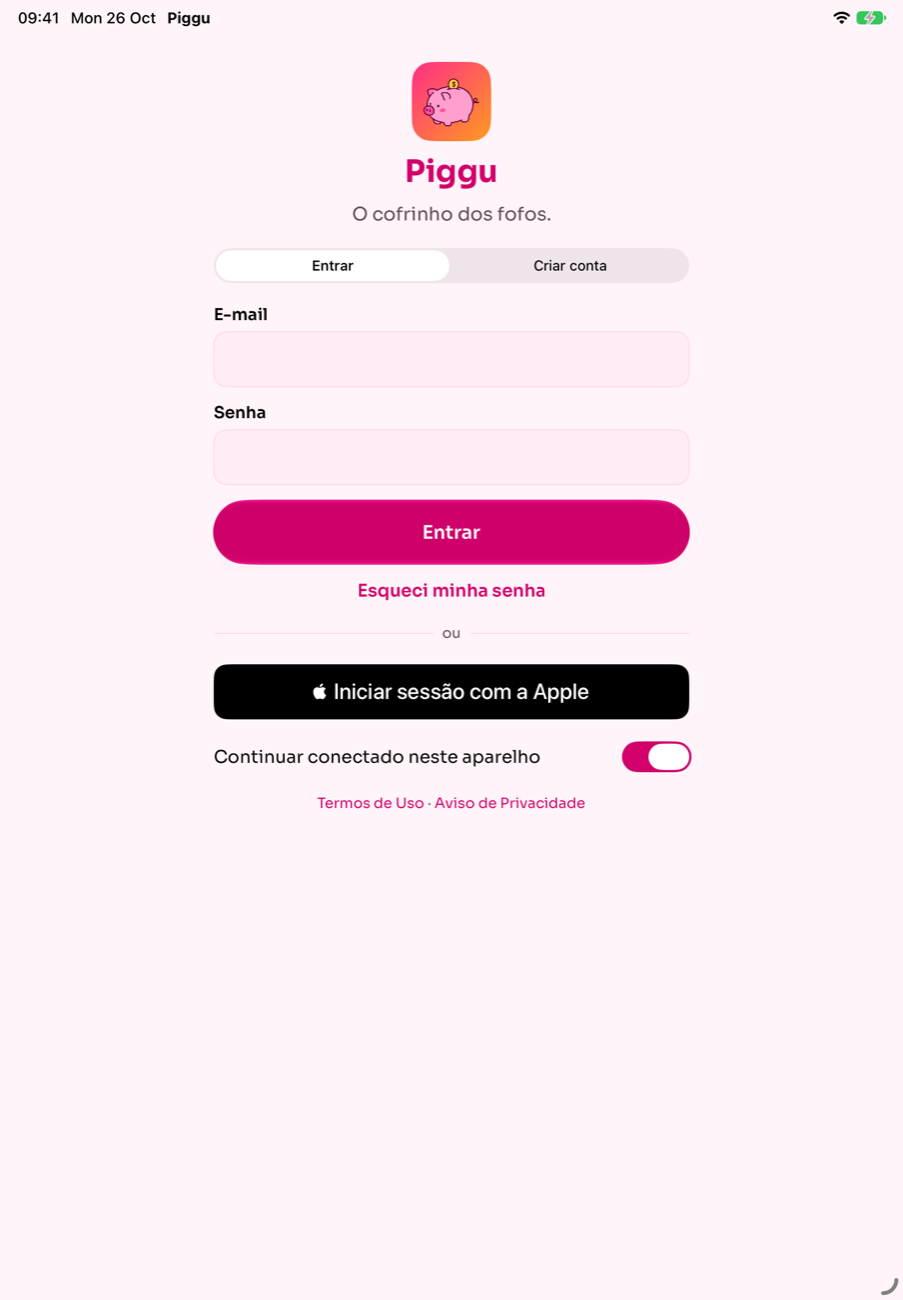
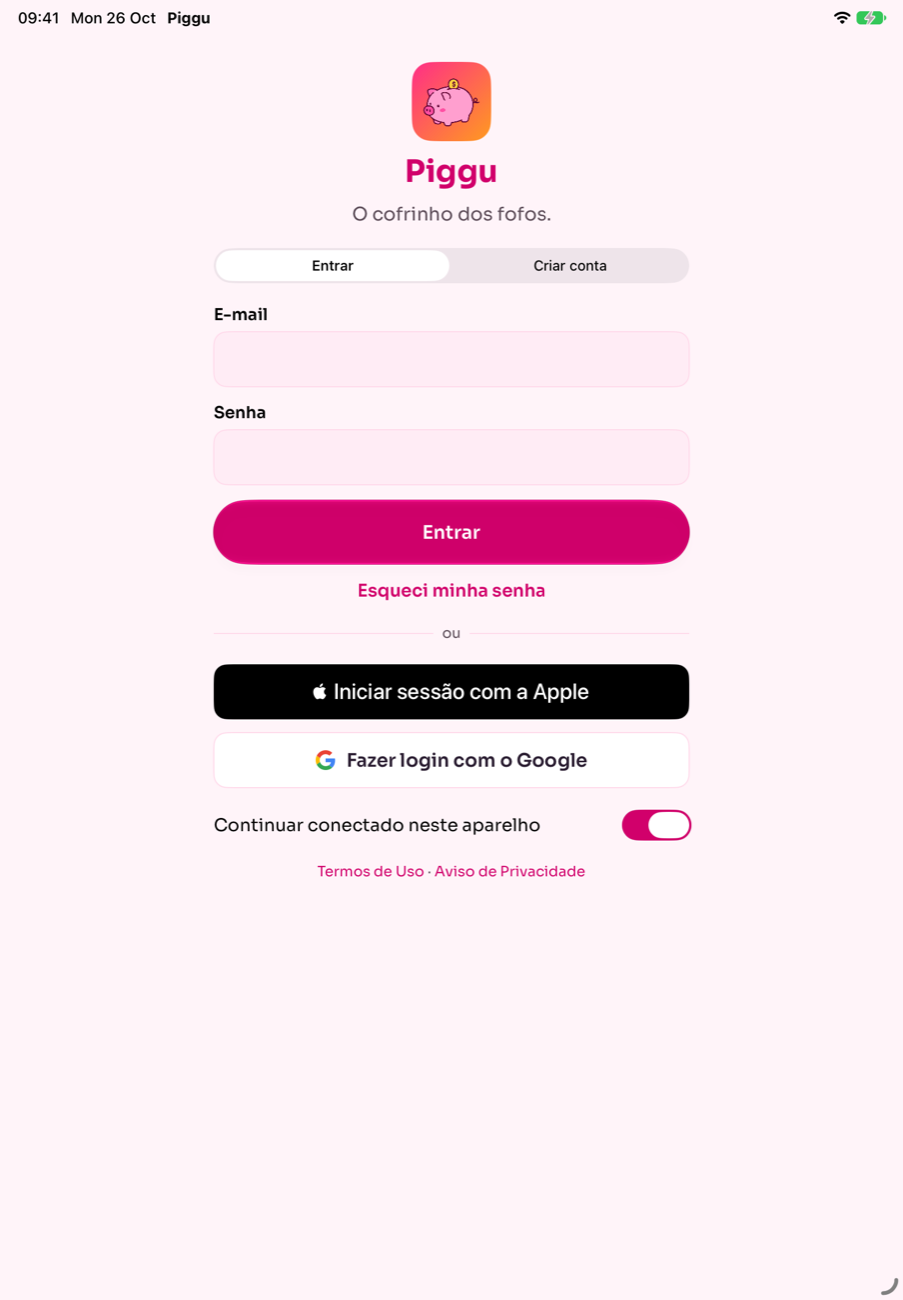
iOS nativo: IDs do Google e Team no projeto (D-084)
Os IDs OAuth do Google sao publicos e vao dentro do app: passam para o Piggu.xcconfig, no Git,
e o botao aparece em todo build. O projeto assina com o Team H766LA27ZJ. Prints da tela de
entrar refeitos com o botao do Google.

Claude-Session: https://claude.ai/code/session_012EHC8KkuLH6kBqEGWdkNrv

Changed region(s): [[0.2481, 0.5538, 0.6512, 0.6769], [0.6822, 0.5538, 0.7752, 0.6462]]

diff --git a/ios-nativo/Piggu/Core/Auth/EntradaComGoogle.swift b/ios-nativo/Piggu/Core/Auth/EntradaComGoogle.swift
@@ -2,7 +2,7 @@ import GoogleSignIn
 import UIKit
 
 /// Google Sign-In nativo (D-055): devolve o ID token que vai para POST /auth/google. O ID OAuth
-/// do iOS vem do `Config/Google.xcconfig`, fora do Git; sem ele o botao nao aparece.
+/// do iOS vem do `Config/Piggu.xcconfig`; sem ele o botao nao aparece.
 @MainActor
 enum EntradaComGoogle {
     /// O GIDClientID do Info.plist, preenchido pelo build setting GOOGLE_IOS_CLIENT_ID.

diff --git a/ios-nativo/README.md b/ios-nativo/README.md
@@ -68,31 +68,12 @@ responde como link vencido.
 
 ### Universal Links (links do e-mail)
 
-O app já tem o *Associated Domains* `applinks:piggu.com.br`. Para o link do e-mail abrir o app em
-vez do site, falta publicar no site o arquivo `https://piggu.com.br/.well-known/apple-app-site-association`
-(JSON, sem extensão, sem redirecionamento), com o Team ID da conta de desenvolvedor no lugar de
-`TEAMID`:
-
-```json
-{
-  "applinks": {
-    "details": [
-      {
-        "appIDs": ["TEAMID.br.com.piggu.app"],
-        "components": [
-          { "/": "/confirmar-email", "?": { "token": "?*" } },
-          { "/": "/redefinir-senha", "?": { "token": "?*" } }
-        ]
-      }
-    ]
-  },
-  "webcredentials": { "apps": ["TEAMID.br.com.piggu.app"] }
-}
-```
-
-No site, o arquivo vai em `frontend/public/.well-known/` e o `deploy/Caddyfile` precisa servi-lo
-com `Content-Type: application/json`. Enquanto ele não existir, o link abre o site, que tem as
-mesmas telas.
+O app tem o *Associated Domains* `applinks:piggu.com.br`, e o site publica
+`https://piggu.com.br/.well-known/apple-app-site-association` (`frontend/public/.well-known/`,
+servido como JSON pelo `deploy/Caddyfile`) com o App ID `H766LA27ZJ.br.com.piggu.app`. Os links
+de `/confirmar-email` e `/redefinir-senha` abrem o app; sem o app, abrem o site, que tem as
+mesmas telas. A Apple lê o arquivo pela CDN dela, então o app só passa a abrir os links depois
+que ele estiver no ar em produção.
 
 ## Bibliotecas
 
@@ -112,29 +93,20 @@ A fonte Sora (`Piggu/Recursos/Sora.woff2`) é o mesmo arquivo do pacote
 O alvo tem a capacidade *Sign in with Apple* (`Piggu/Piggu.entitlements`). O app manda o
 identity token, o nonce e, na primeira vez, o nome para `POST /api/auth/apple` (D-072). No
 servidor, `APPLE_CLIENT_IDS=br.com.piggu.app`; sem isso a rota responde 501 e o app mostra
-"O login com a Apple ainda não está disponível". No Xcode, ao escolher o *Team*, a assinatura
-automática registra a capacidade no App ID.
+"O login com a Apple ainda não está disponível". O projeto assina com o Team `H766LA27ZJ`; a
+assinatura automática registra a capacidade no App ID.
 
 ## Entrar com Google
 
-O botão só aparece quando o build tem o ID OAuth do iOS, que fica em
-`Config/Google.xcconfig`, fora do Git (`Config/Piggu.xcconfig` o inclui se existir). Para
-criar:
+Os IDs OAuth ficam em `Config/Piggu.xcconfig`: são públicos e vão dentro do app. O do iOS
+(tipo **iOS** no [Google Cloud Console](https://console.cloud.google.com/apis/credentials), no
+mesmo projeto do site, ID do pacote `br.com.piggu.app`) abre o login e dá o esquema de URL de
+volta (`GOOGLE_IOS_URL_SCHEME`, o mesmo ID ao contrário). Sem `GOOGLE_IOS_CLIENT_ID` o botão
+não aparece.
 
-1. No [Google Cloud Console](https://console.cloud.google.com/apis/credentials), no mesmo
-   projeto do ID do site, *Criar credenciais → ID do cliente OAuth*.
-2. Tipo de aplicativo **iOS**, nome "Piggu iOS", ID do pacote `br.com.piggu.app` (o Team ID e o
-   ID da App Store são opcionais). Criar.
-3. Copie `Config/Google.exemplo.xcconfig` para `Config/Google.xcconfig` e preencha
-   `GOOGLE_IOS_CLIENT_ID` com o *ID do cliente* e `GOOGLE_IOS_URL_SCHEME` com o *esquema de URL
-   do iOS* que a tela mostra (o mesmo ID ao contrário, `com.googleusercontent.apps....`).
-
-O servidor não muda: o app pede o token para o ID do site (`GIDServerClientID`, em
-`Config/Piggu.xcconfig`), então o `aud` é o mesmo que o backend já aceita em `GOOGLE_CLIENT_ID`.
-Não ponha dois IDs separados por vírgula nessa variável: o `application.yml` a lê como um
-item só da lista e o login do site para.
-
-No CI o arquivo não existe: o app compila e o botão fica escondido.
+O servidor não muda: o app pede o token para o ID do site (`GIDServerClientID`), então o `aud` é
+o mesmo que o backend já aceita em `GOOGLE_CLIENT_ID`. Não ponha dois IDs separados por vírgula
+nessa variável: o `application.yml` a lê como um item só da lista e o login do site para.
 
 ## Regras e CI
 
@@ -208,7 +180,6 @@ etapa 2, no iPhone e no iPad, em [`docs/prints/etapa-2/`](docs/prints/etapa-2/);
 
 ## O que falta
 
-- **ID do Google para iOS** e **Universal Links**: os passos acima.
 - **Revogar o token da Apple ao excluir a conta**, que a App Store exige: falta no backend
   (`docs/API_SPEC.md`).
 - Trocar e criar senha no Perfil (`PUT /api/auth/me/senha`, com o `refreshToken` no corpo).

diff --git a/docs/DECISIONS.md b/docs/DECISIONS.md
@@ -96,6 +96,7 @@ no fim, em vez de ganhar um motivo inventado.
 | [D-071](#d-071-chiclete-como-cor-padrão-e-porquinho-neon-como-ícone) | Chiclete como cor padrão e Porquinho Neon como ícone | Valendo |
 | [D-072](#d-072-refresh-no-corpo-só-para-quem-pede-e-apple-pelo-e-mail) | Refresh no corpo só para quem pede, e Apple pelo e-mail | Valendo |
 | [D-083](#d-083-termos-e-aviso-do-app-nativo-copiados-do-site-pelo-ci) | Termos e Aviso do app nativo copiados do site pelo CI | Valendo |
+| [D-084](#d-084-google-no-app-nativo-com-o-id-do-site-no-aud) | Google no app nativo com o ID do site no `aud` | Valendo |
 | **Processo** | | |
 | [D-061](#d-061-develop-junta-main-é-produção) | `develop` junta, `main` é produção | Valendo |
 | [D-062](#d-062-dependabot-abre-pr-na-develop) | Dependabot abre PR na `develop` | Valendo |
@@ -790,10 +791,19 @@ no fim, em vez de ganhar um motivo inventado.
 - Data: 26/10/2026
 - Situação: Valendo
 - Contexto: etapa 3 do plano iOS. O app nativo mostra os Termos de Uso e o Aviso de Privacidade em telas próprias, com o mesmo texto do site, e o aceite grava a versão (`VERSAO_DO_AVISO`). Duas cópias escritas à mão acabariam diferentes.
-- Decisão: o texto do site (`features/legal/*.html` e a versão de `aviso.ts`) é a fonte. `ios-nativo/scripts/textos-legais.py` gera `ios-nativo/Piggu/Recursos/Termos.md` e `Privacidade.md`, e o CI do iOS falha se eles ficarem diferentes do HTML. A versão no Swift (`Conta.versaoDosTermos`) é conferida contra o texto nos testes. O ID OAuth do Google para iOS fica num `xcconfig` fora do Git; sem ele o botão do Google não aparece.
+- Decisão: o texto do site (`features/legal/*.html` e a versão de `aviso.ts`) é a fonte. `ios-nativo/scripts/textos-legais.py` gera `ios-nativo/Piggu/Recursos/Termos.md` e `Privacidade.md`, e o CI do iOS falha se eles ficarem diferentes do HTML. A versão no Swift (`Conta.versaoDosTermos`) é conferida contra o texto nos testes.
 - Alternativas: abrir o site numa web view, que não abre sem internet e fica fora do visual do app, ou guardar os textos no String Catalog, onde cada parágrafo vira uma chave solta.
 - Consequências: mudou o texto no site, roda o script e faz o commit no mesmo PR. O Android vai precisar do mesmo script.
 - Onde ver: `ios-nativo/scripts/textos-legais.py`, `ios-nativo/Piggu/Telas/Entrada/TextoLegalView.swift`, `.github/workflows/ios-nativo.yml`
+
+## D-084: Google no app nativo com o ID do site no `aud`
+- Data: 26/10/2026
+- Situação: Valendo
+- Contexto: etapa 3 do plano iOS. O login do Google no app usa um ID OAuth do tipo iOS, e o backend só aceita ID tokens cuja audiência esteja em `GOOGLE_CLIENT_ID`. Pôr os dois IDs nessa variável, separados por vírgula, não funciona: o `application.yml` a lê como um item só da lista, e o login do site pararia.
+- Decisão: o app abre o login com o ID do iOS e pede o token para o ID do site (`GIDServerClientID`), então o `aud` é o que o backend já aceita e o servidor não muda. Os dois IDs ficam em `ios-nativo/Config/Piggu.xcconfig`, no Git: são públicos e vão dentro do app. O site publica o `apple-app-site-association` com o Team `H766LA27ZJ` para os links de confirmar e-mail e de redefinir senha abrirem o app.
+- Alternativas: aceitar uma lista de IDs no backend, que mexe no servidor sem necessidade; guardar o ID do iOS fora do Git, que só escondia o botão nos builds sem o arquivo.
+- Consequências: trocar o ID do site exige trocar também o `GOOGLE_SERVER_CLIENT_ID` do app. O ID do iOS precisa estar no mesmo projeto do Google Cloud que o do site.
+- Onde ver: `ios-nativo/Config/Piggu.xcconfig`, `ios-nativo/Piggu/Core/Auth/EntradaComGoogle.swift`, `frontend/public/.well-known/apple-app-site-association`, `deploy/Caddyfile`
 
 # Processo
 
